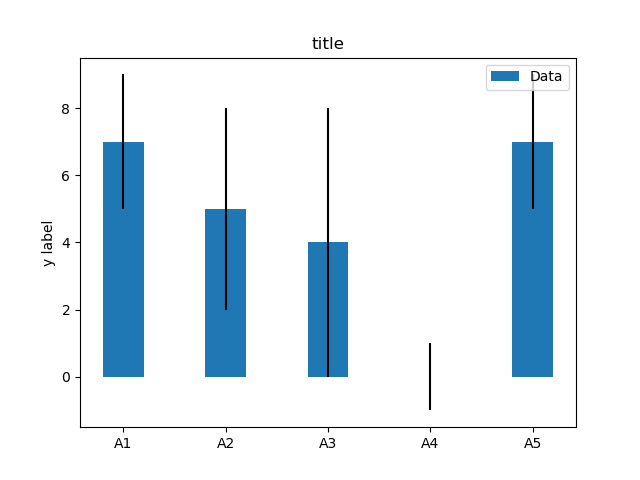
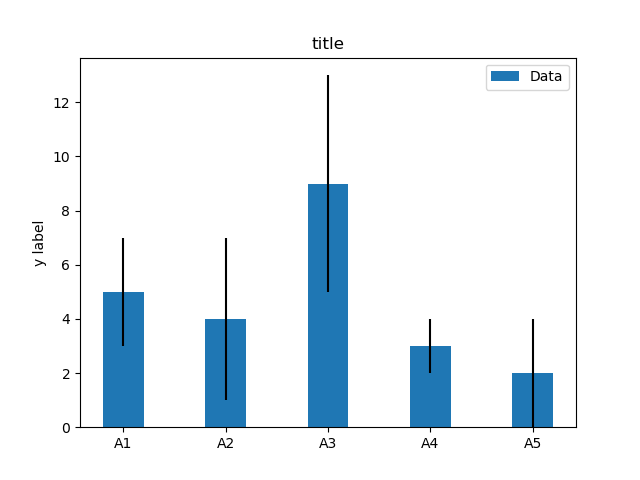
first commit

diff --git a/example.py b/example.py
@@ -2,7 +2,7 @@ import numpy as np
 import matplotlib.pyplot as plt
 
 labels = ['A1', 'A2', 'A3', 'A4', 'A5']
-m_means = [7,5,4,0,7]
+m_means = [5,4,9,3,2]
 m_std = [2, 3, 4, 1, 2]
 width = 0.40       # the width of the bars
 

diff --git a/README.md b/README.md
@@ -1,4 +1,4 @@
-# Matplotlib no 166 
+# Matplotlib no 167 
 
 python example
 
